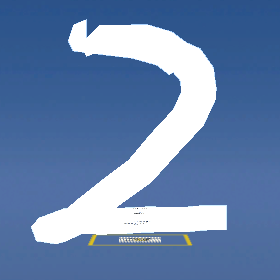
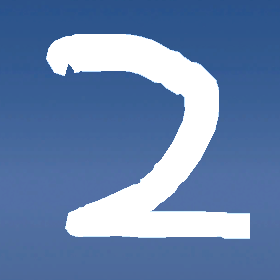
fix the bug of hand writing

Changed region(s): [[0.1143, 0.0571, 0.9143, 0.8857]]

diff --git a/Assets/Script/HandInput.cs b/Assets/Script/HandInput.cs
@@ -59,7 +59,13 @@ public class HandInput : MonoBehaviour
         //Vector2 mousePosition = pointer.position.ReadValue();
         //Debug.LogError(mousePosition);
         //设置顶点位置(顶点的索引，将鼠标点击的屏幕坐标转换为世界坐标)
-        line.SetPosition(i - 1, Camera.main.ScreenToWorldPoint(new Vector3(point.x, point.y, 15)));
+        Vector2 localPosition = new Vector2();
+        RectTransformUtility.ScreenPointToLocalPointInRectangle(contextRect, point, null, out localPosition);
+        if (contextRect.rect.Contains(localPosition))
+        {
+            line.SetPosition(i - 1, Camera.main.ScreenToWorldPoint(new Vector3(point.x, point.y, 15)));
+        }
+        
     }
 
 
